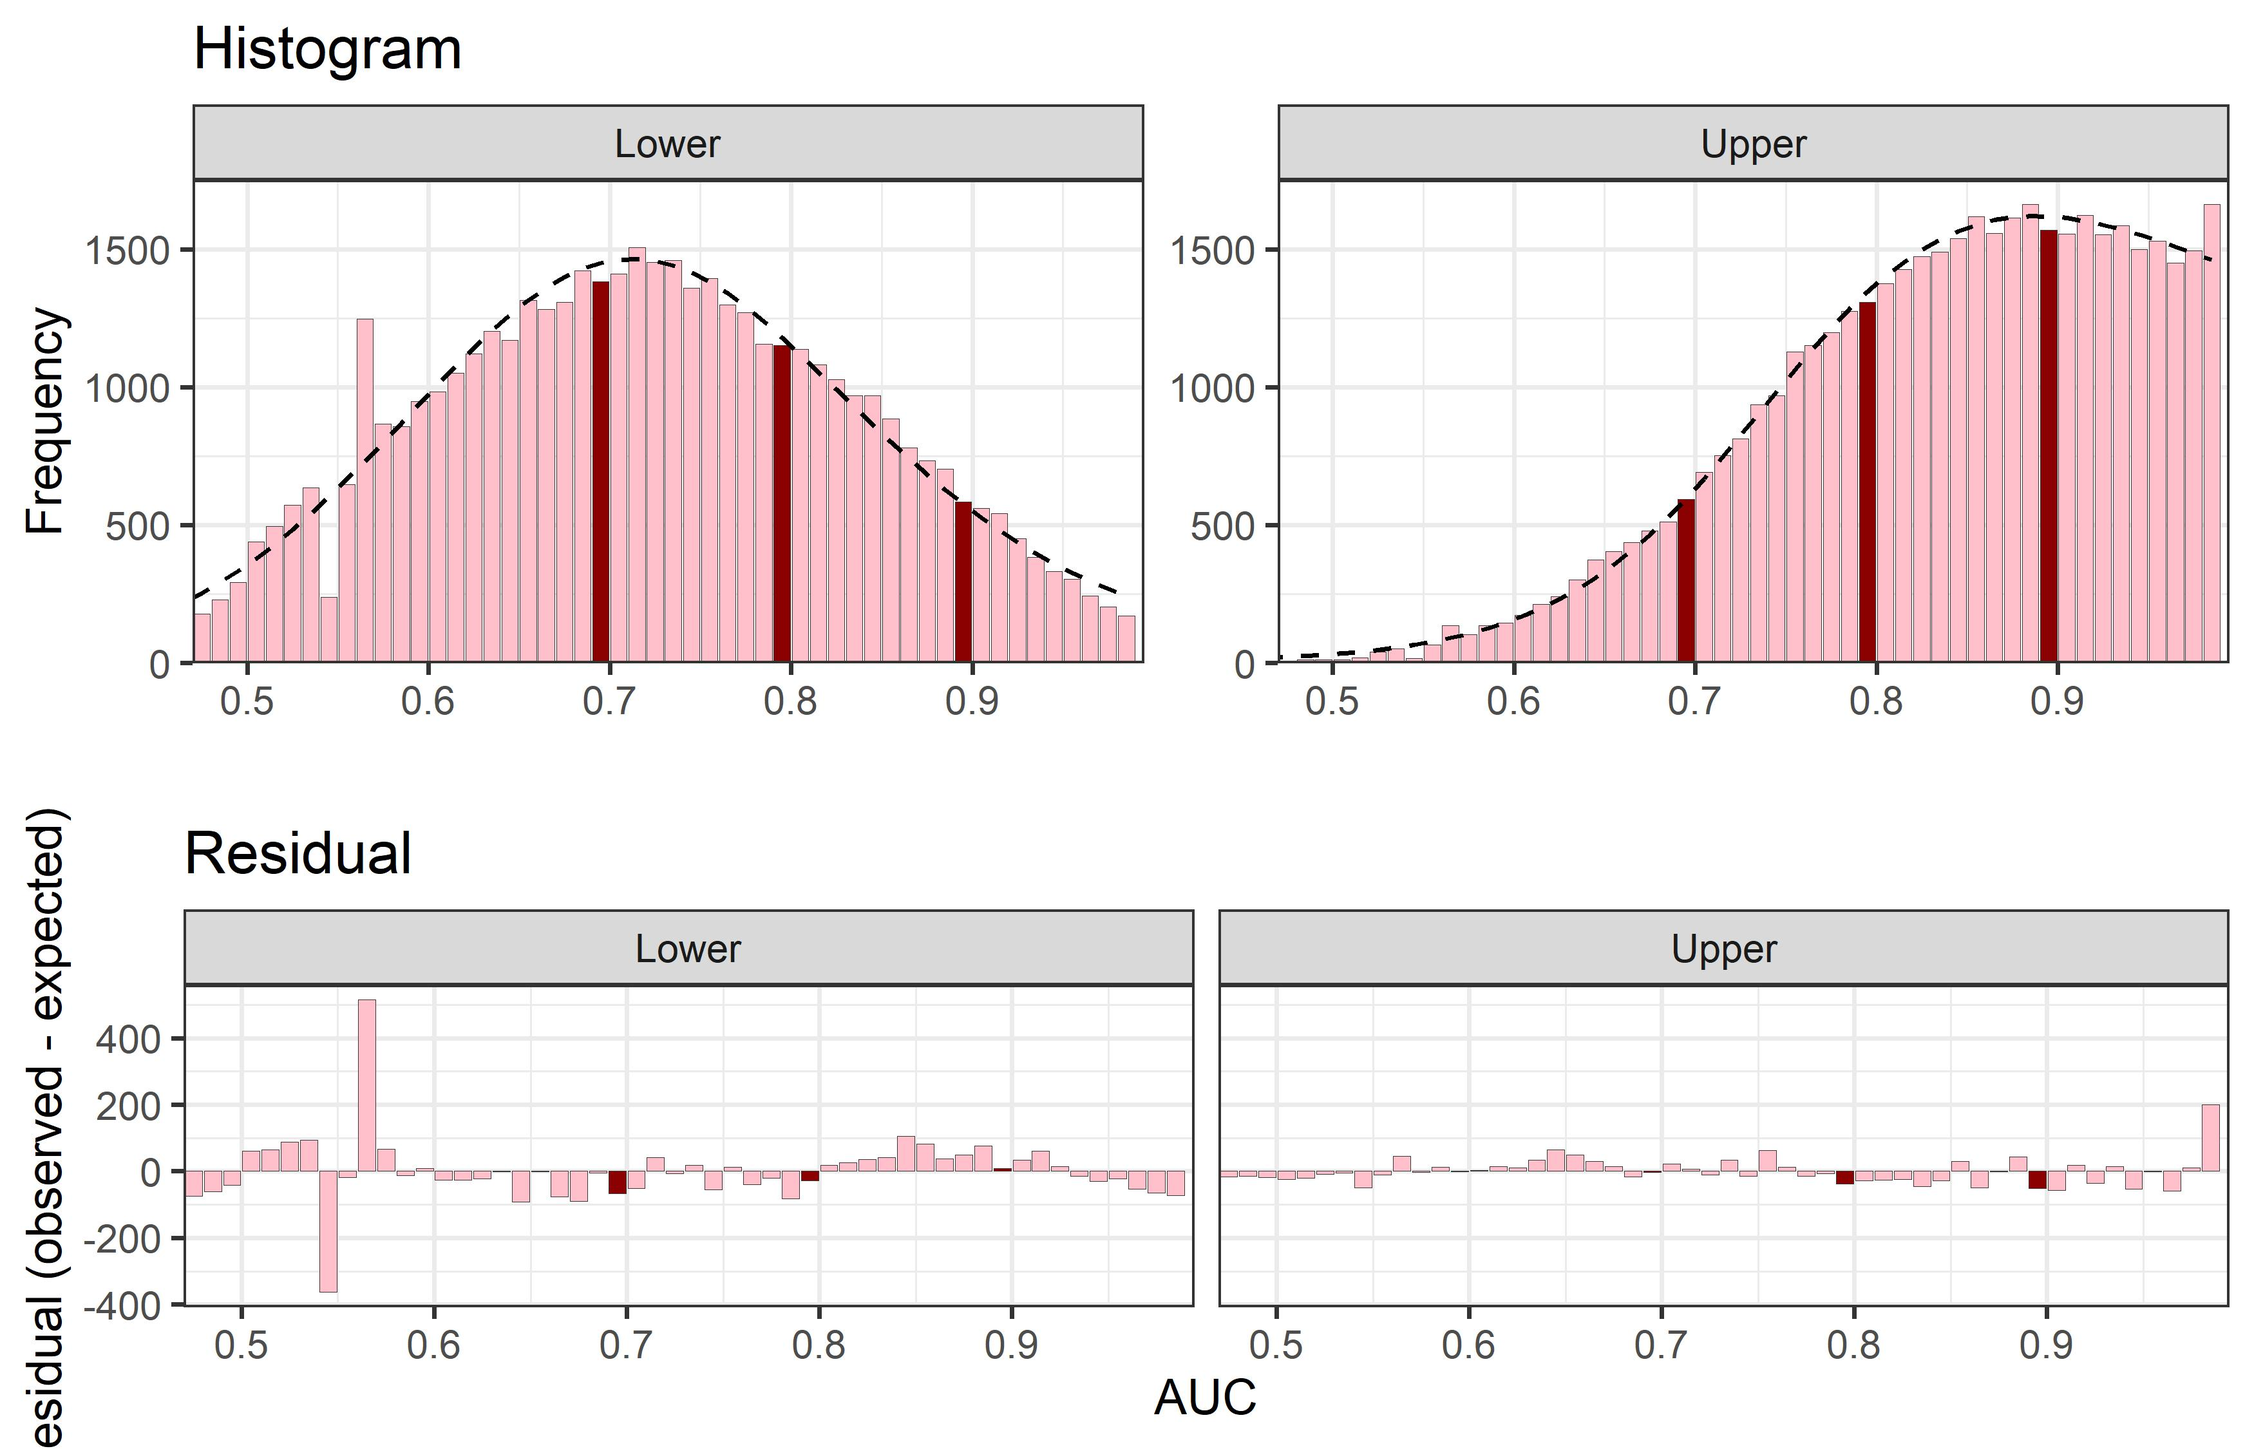
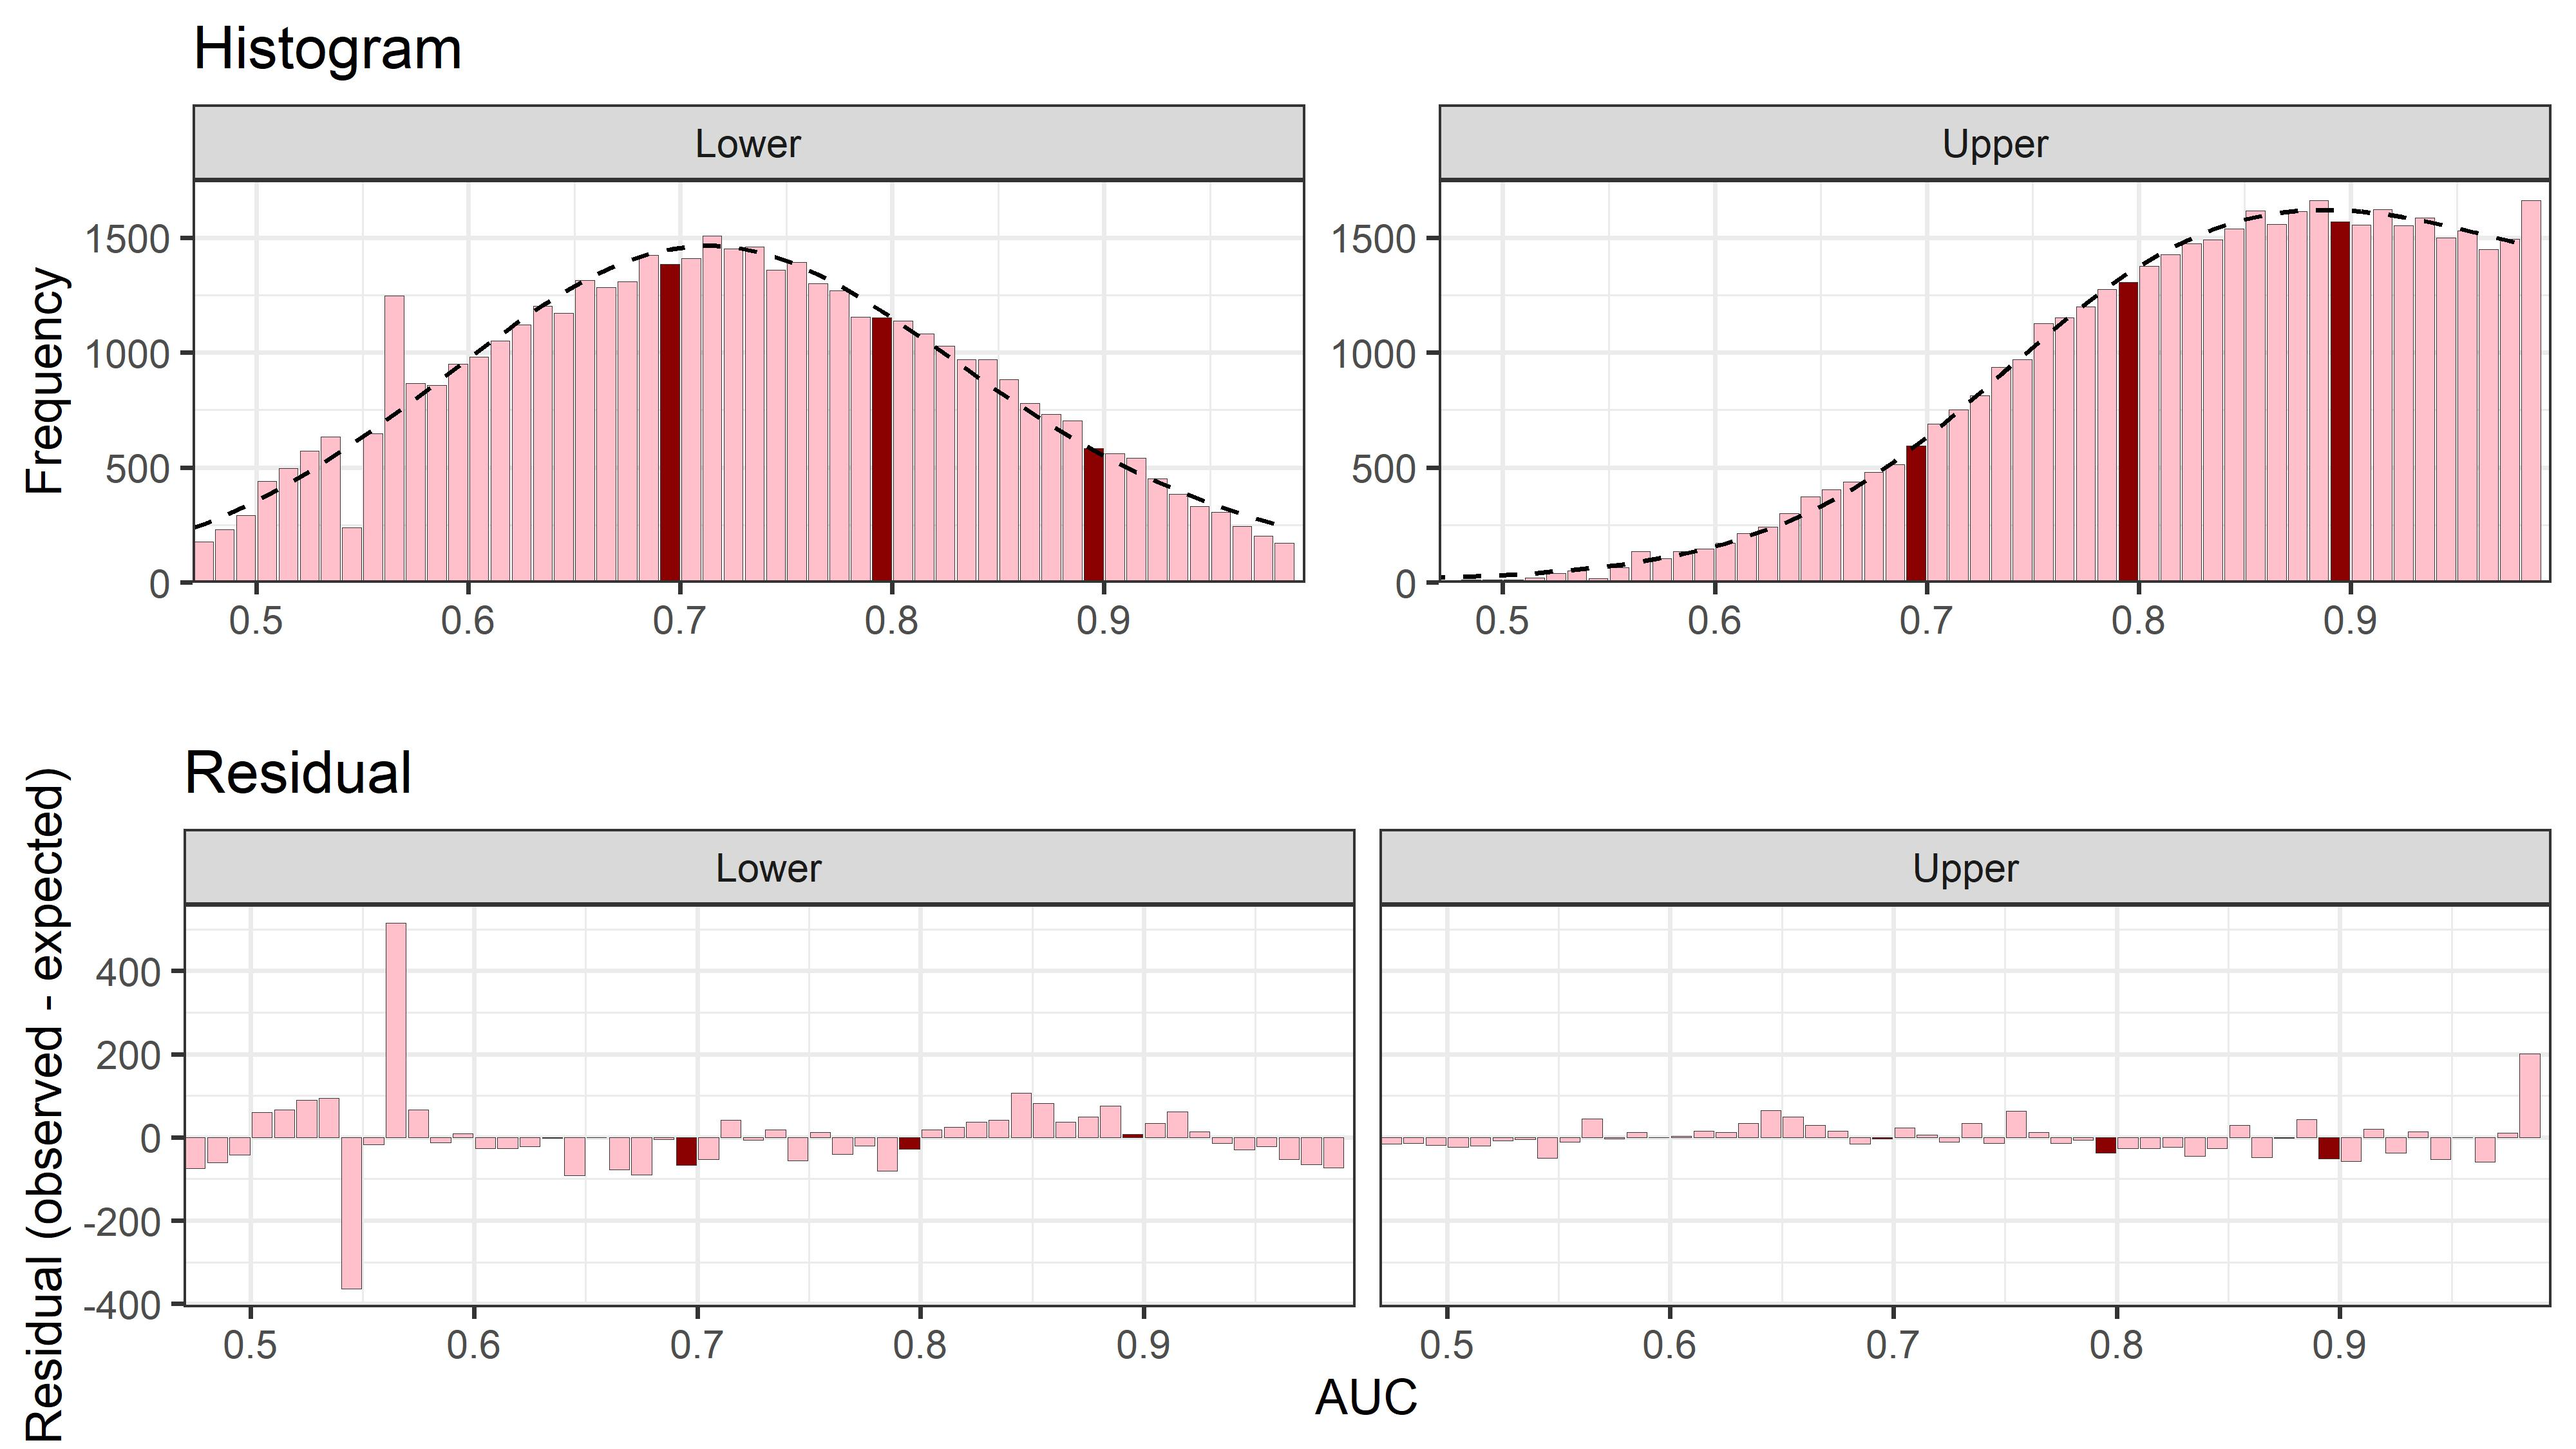
AUC2

diff --git a/AUC/slides.html b/AUC/slides.html
@@ -130,7 +130,7 @@ class:inverse
 
 ### Pre-test probability = 0.05
 
-&lt;div class="tabwid"&gt;&lt;style&gt;.cl-b51b647a{}.cl-b5113270{font-family:'Arial';font-size:22pt;font-weight:bold;font-style:normal;text-decoration:none;color:rgba(255, 215, 0, 1.00);background-color:transparent;}.cl-b511328e{font-family:'Arial';font-size:22pt;font-weight:normal;font-style:normal;text-decoration:none;color:rgba(255, 215, 0, 1.00);background-color:transparent;}.cl-b515c0c4{margin:0;text-align:left;border-bottom: 0 solid rgba(0, 0, 0, 1.00);border-top: 0 solid rgba(0, 0, 0, 1.00);border-left: 0 solid rgba(0, 0, 0, 1.00);border-right: 0 solid rgba(0, 0, 0, 1.00);padding-bottom:5pt;padding-top:5pt;padding-left:5pt;padding-right:5pt;line-height: 1;background-color:transparent;}.cl-b515c0ce{margin:0;text-align:right;border-bottom: 0 solid rgba(0, 0, 0, 1.00);border-top: 0 solid rgba(0, 0, 0, 1.00);border-left: 0 solid rgba(0, 0, 0, 1.00);border-right: 0 solid rgba(0, 0, 0, 1.00);padding-bottom:5pt;padding-top:5pt;padding-left:5pt;padding-right:5pt;line-height: 1;background-color:transparent;}.cl-b515d6d6{width:0.75in;background-color:transparent;vertical-align: middle;border-bottom: 0.75pt solid rgba(102, 102, 102, 1.00);border-top: 0.75pt solid rgba(102, 102, 102, 1.00);border-left: 0.75pt solid rgba(102, 102, 102, 1.00);border-right: 0.75pt solid rgba(102, 102, 102, 1.00);margin-bottom:0;margin-top:0;margin-left:0;margin-right:0;}.cl-b515d6e0{width:0.75in;background-color:transparent;vertical-align: middle;border-bottom: 0.75pt solid rgba(102, 102, 102, 1.00);border-top: 0.75pt solid rgba(102, 102, 102, 1.00);border-left: 0.75pt solid rgba(102, 102, 102, 1.00);border-right: 0.75pt solid rgba(102, 102, 102, 1.00);margin-bottom:0;margin-top:0;margin-left:0;margin-right:0;}.cl-b515d6e1{width:0.75in;background-color:transparent;vertical-align: middle;border-bottom: 0.75pt solid rgba(102, 102, 102, 1.00);border-top: 0 solid rgba(0, 0, 0, 1.00);border-left: 0.75pt solid rgba(102, 102, 102, 1.00);border-right: 0.75pt solid rgba(102, 102, 102, 1.00);margin-bottom:0;margin-top:0;margin-left:0;margin-right:0;}.cl-b515d6ea{width:0.75in;background-color:transparent;vertical-align: middle;border-bottom: 0.75pt solid rgba(102, 102, 102, 1.00);border-top: 0 solid rgba(0, 0, 0, 1.00);border-left: 0.75pt solid rgba(102, 102, 102, 1.00);border-right: 0.75pt solid rgba(102, 102, 102, 1.00);margin-bottom:0;margin-top:0;margin-left:0;margin-right:0;}&lt;/style&gt;&lt;table data-quarto-disable-processing='true' class='cl-b51b647a'&gt;&lt;thead&gt;&lt;tr style="overflow-wrap:break-word;"&gt;&lt;th class="cl-b515d6d6"&gt;&lt;p class="cl-b515c0c4"&gt;&lt;span class="cl-b5113270"&gt;Test&lt;/span&gt;&lt;/p&gt;&lt;/th&gt;&lt;th class="cl-b515d6e0"&gt;&lt;p class="cl-b515c0ce"&gt;&lt;span class="cl-b5113270"&gt;Diseased&lt;/span&gt;&lt;/p&gt;&lt;/th&gt;&lt;th class="cl-b515d6e0"&gt;&lt;p class="cl-b515c0ce"&gt;&lt;span class="cl-b5113270"&gt;Well&lt;/span&gt;&lt;/p&gt;&lt;/th&gt;&lt;/tr&gt;&lt;/thead&gt;&lt;tbody&gt;&lt;tr style="overflow-wrap:break-word;"&gt;&lt;td class="cl-b515d6e1"&gt;&lt;p class="cl-b515c0c4"&gt;&lt;span class="cl-b511328e"&gt;Positive&lt;/span&gt;&lt;/p&gt;&lt;/td&gt;&lt;td class="cl-b515d6ea"&gt;&lt;p class="cl-b515c0ce"&gt;&lt;span class="cl-b511328e"&gt;40&lt;/span&gt;&lt;/p&gt;&lt;/td&gt;&lt;td class="cl-b515d6ea"&gt;&lt;p class="cl-b515c0ce"&gt;&lt;span class="cl-b511328e"&gt;190&lt;/span&gt;&lt;/p&gt;&lt;/td&gt;&lt;/tr&gt;&lt;tr style="overflow-wrap:break-word;"&gt;&lt;td class="cl-b515d6d6"&gt;&lt;p class="cl-b515c0c4"&gt;&lt;span class="cl-b511328e"&gt;Negative&lt;/span&gt;&lt;/p&gt;&lt;/td&gt;&lt;td class="cl-b515d6e0"&gt;&lt;p class="cl-b515c0ce"&gt;&lt;span class="cl-b511328e"&gt;10&lt;/span&gt;&lt;/p&gt;&lt;/td&gt;&lt;td class="cl-b515d6e0"&gt;&lt;p class="cl-b515c0ce"&gt;&lt;span class="cl-b511328e"&gt;760&lt;/span&gt;&lt;/p&gt;&lt;/td&gt;&lt;/tr&gt;&lt;/tbody&gt;&lt;/table&gt;&lt;/div&gt;
+&lt;div class="tabwid"&gt;&lt;style&gt;.cl-ccb7b50a{}.cl-ccae119e{font-family:'Arial';font-size:22pt;font-weight:bold;font-style:normal;text-decoration:none;color:rgba(255, 215, 0, 1.00);background-color:transparent;}.cl-ccae11c6{font-family:'Arial';font-size:22pt;font-weight:normal;font-style:normal;text-decoration:none;color:rgba(255, 215, 0, 1.00);background-color:transparent;}.cl-ccb250d8{margin:0;text-align:left;border-bottom: 0 solid rgba(0, 0, 0, 1.00);border-top: 0 solid rgba(0, 0, 0, 1.00);border-left: 0 solid rgba(0, 0, 0, 1.00);border-right: 0 solid rgba(0, 0, 0, 1.00);padding-bottom:5pt;padding-top:5pt;padding-left:5pt;padding-right:5pt;line-height: 1;background-color:transparent;}.cl-ccb250e2{margin:0;text-align:right;border-bottom: 0 solid rgba(0, 0, 0, 1.00);border-top: 0 solid rgba(0, 0, 0, 1.00);border-left: 0 solid rgba(0, 0, 0, 1.00);border-right: 0 solid rgba(0, 0, 0, 1.00);padding-bottom:5pt;padding-top:5pt;padding-left:5pt;padding-right:5pt;line-height: 1;background-color:transparent;}.cl-ccb26596{width:0.75in;background-color:transparent;vertical-align: middle;border-bottom: 0.75pt solid rgba(102, 102, 102, 1.00);border-top: 0.75pt solid rgba(102, 102, 102, 1.00);border-left: 0.75pt solid rgba(102, 102, 102, 1.00);border-right: 0.75pt solid rgba(102, 102, 102, 1.00);margin-bottom:0;margin-top:0;margin-left:0;margin-right:0;}.cl-ccb265a0{width:0.75in;background-color:transparent;vertical-align: middle;border-bottom: 0.75pt solid rgba(102, 102, 102, 1.00);border-top: 0.75pt solid rgba(102, 102, 102, 1.00);border-left: 0.75pt solid rgba(102, 102, 102, 1.00);border-right: 0.75pt solid rgba(102, 102, 102, 1.00);margin-bottom:0;margin-top:0;margin-left:0;margin-right:0;}.cl-ccb265a1{width:0.75in;background-color:transparent;vertical-align: middle;border-bottom: 0.75pt solid rgba(102, 102, 102, 1.00);border-top: 0 solid rgba(0, 0, 0, 1.00);border-left: 0.75pt solid rgba(102, 102, 102, 1.00);border-right: 0.75pt solid rgba(102, 102, 102, 1.00);margin-bottom:0;margin-top:0;margin-left:0;margin-right:0;}.cl-ccb265aa{width:0.75in;background-color:transparent;vertical-align: middle;border-bottom: 0.75pt solid rgba(102, 102, 102, 1.00);border-top: 0 solid rgba(0, 0, 0, 1.00);border-left: 0.75pt solid rgba(102, 102, 102, 1.00);border-right: 0.75pt solid rgba(102, 102, 102, 1.00);margin-bottom:0;margin-top:0;margin-left:0;margin-right:0;}&lt;/style&gt;&lt;table data-quarto-disable-processing='true' class='cl-ccb7b50a'&gt;&lt;thead&gt;&lt;tr style="overflow-wrap:break-word;"&gt;&lt;th class="cl-ccb26596"&gt;&lt;p class="cl-ccb250d8"&gt;&lt;span class="cl-ccae119e"&gt;Test&lt;/span&gt;&lt;/p&gt;&lt;/th&gt;&lt;th class="cl-ccb265a0"&gt;&lt;p class="cl-ccb250e2"&gt;&lt;span class="cl-ccae119e"&gt;Diseased&lt;/span&gt;&lt;/p&gt;&lt;/th&gt;&lt;th class="cl-ccb265a0"&gt;&lt;p class="cl-ccb250e2"&gt;&lt;span class="cl-ccae119e"&gt;Well&lt;/span&gt;&lt;/p&gt;&lt;/th&gt;&lt;/tr&gt;&lt;/thead&gt;&lt;tbody&gt;&lt;tr style="overflow-wrap:break-word;"&gt;&lt;td class="cl-ccb265a1"&gt;&lt;p class="cl-ccb250d8"&gt;&lt;span class="cl-ccae11c6"&gt;Positive&lt;/span&gt;&lt;/p&gt;&lt;/td&gt;&lt;td class="cl-ccb265aa"&gt;&lt;p class="cl-ccb250e2"&gt;&lt;span class="cl-ccae11c6"&gt;40&lt;/span&gt;&lt;/p&gt;&lt;/td&gt;&lt;td class="cl-ccb265aa"&gt;&lt;p class="cl-ccb250e2"&gt;&lt;span class="cl-ccae11c6"&gt;190&lt;/span&gt;&lt;/p&gt;&lt;/td&gt;&lt;/tr&gt;&lt;tr style="overflow-wrap:break-word;"&gt;&lt;td class="cl-ccb26596"&gt;&lt;p class="cl-ccb250d8"&gt;&lt;span class="cl-ccae11c6"&gt;Negative&lt;/span&gt;&lt;/p&gt;&lt;/td&gt;&lt;td class="cl-ccb265a0"&gt;&lt;p class="cl-ccb250e2"&gt;&lt;span class="cl-ccae11c6"&gt;10&lt;/span&gt;&lt;/p&gt;&lt;/td&gt;&lt;td class="cl-ccb265a0"&gt;&lt;p class="cl-ccb250e2"&gt;&lt;span class="cl-ccae11c6"&gt;760&lt;/span&gt;&lt;/p&gt;&lt;/td&gt;&lt;/tr&gt;&lt;/tbody&gt;&lt;/table&gt;&lt;/div&gt;
 
 ---
 # Mass testing
@@ -198,9 +198,9 @@ Pick best model after ...
 
 * Adding or removing predictors
 
-* Remove difficult patients or centres
+* Remove "difficult" patients or centres
 
-* Running different methods (logistic regression, classification tree)
+* Running different methods (e.g., logistic regression, classification tree)
 
 * Trying different random test-validation splits
 
@@ -282,12 +282,12 @@ Pick best model after ...
 ---
 # Histogram and residuals
 
-&lt;img src="figures/histogram_residuals_slide.jpg" width="74%" style="display: block; margin: auto;" /&gt;
+&lt;img src="figures/histogram_residuals_slide.jpg" width="78%" style="display: block; margin: auto;" /&gt;
 
 ---
 ## AUC values from the lower and upper confidence limits
 
-&lt;img src="figures/histogram_residuals_intervals_slide.jpg" width="74%" style="display: block; margin: auto;" /&gt;
+&lt;img src="figures/histogram_residuals_intervals_slide.jpg" width="78%" style="display: block; margin: auto;" /&gt;
 
 ---
 # Results just for _PLOS ONE_
@@ -303,7 +303,7 @@ Pick best model after ...
 
 --
 
-### Some publication bias too
+### Likely some publication bias too
 
 --
 
@@ -329,6 +329,7 @@ class: inverse
 ---
 background-image: url(figures/AIMOS_conference_slide2.jpg)
 background-size: cover
+
     </textarea>
 <style data-target="print-only">@media screen {.remark-slide-container{display:block;}.remark-slide-scaler{box-shadow:none;}}</style>
 <script src="https://remarkjs.com/downloads/remark-latest.min.js"></script>

diff --git a/README.md b/README.md
@@ -28,3 +28,4 @@ In date order:
 * `DCE` AusHSI Discrete Choice Experiments: Exploring and evaluating methodologies (March 2023)
 * `crikey` Critical care Research International: Knowledge, Evidence and beYond (CRIKEY), Gold Coast (March 2023)
 * `more_than_our_rank` [More Than Our Rank Community Call](https://inorms.net/more-than-our-rank-community-calls/) (March 2023)
+* `AUC` Statistical Society of Australia Queensland Branch seminar on "Evidence of statistical 'hacking' in clinical prediction models" (August 2023)
